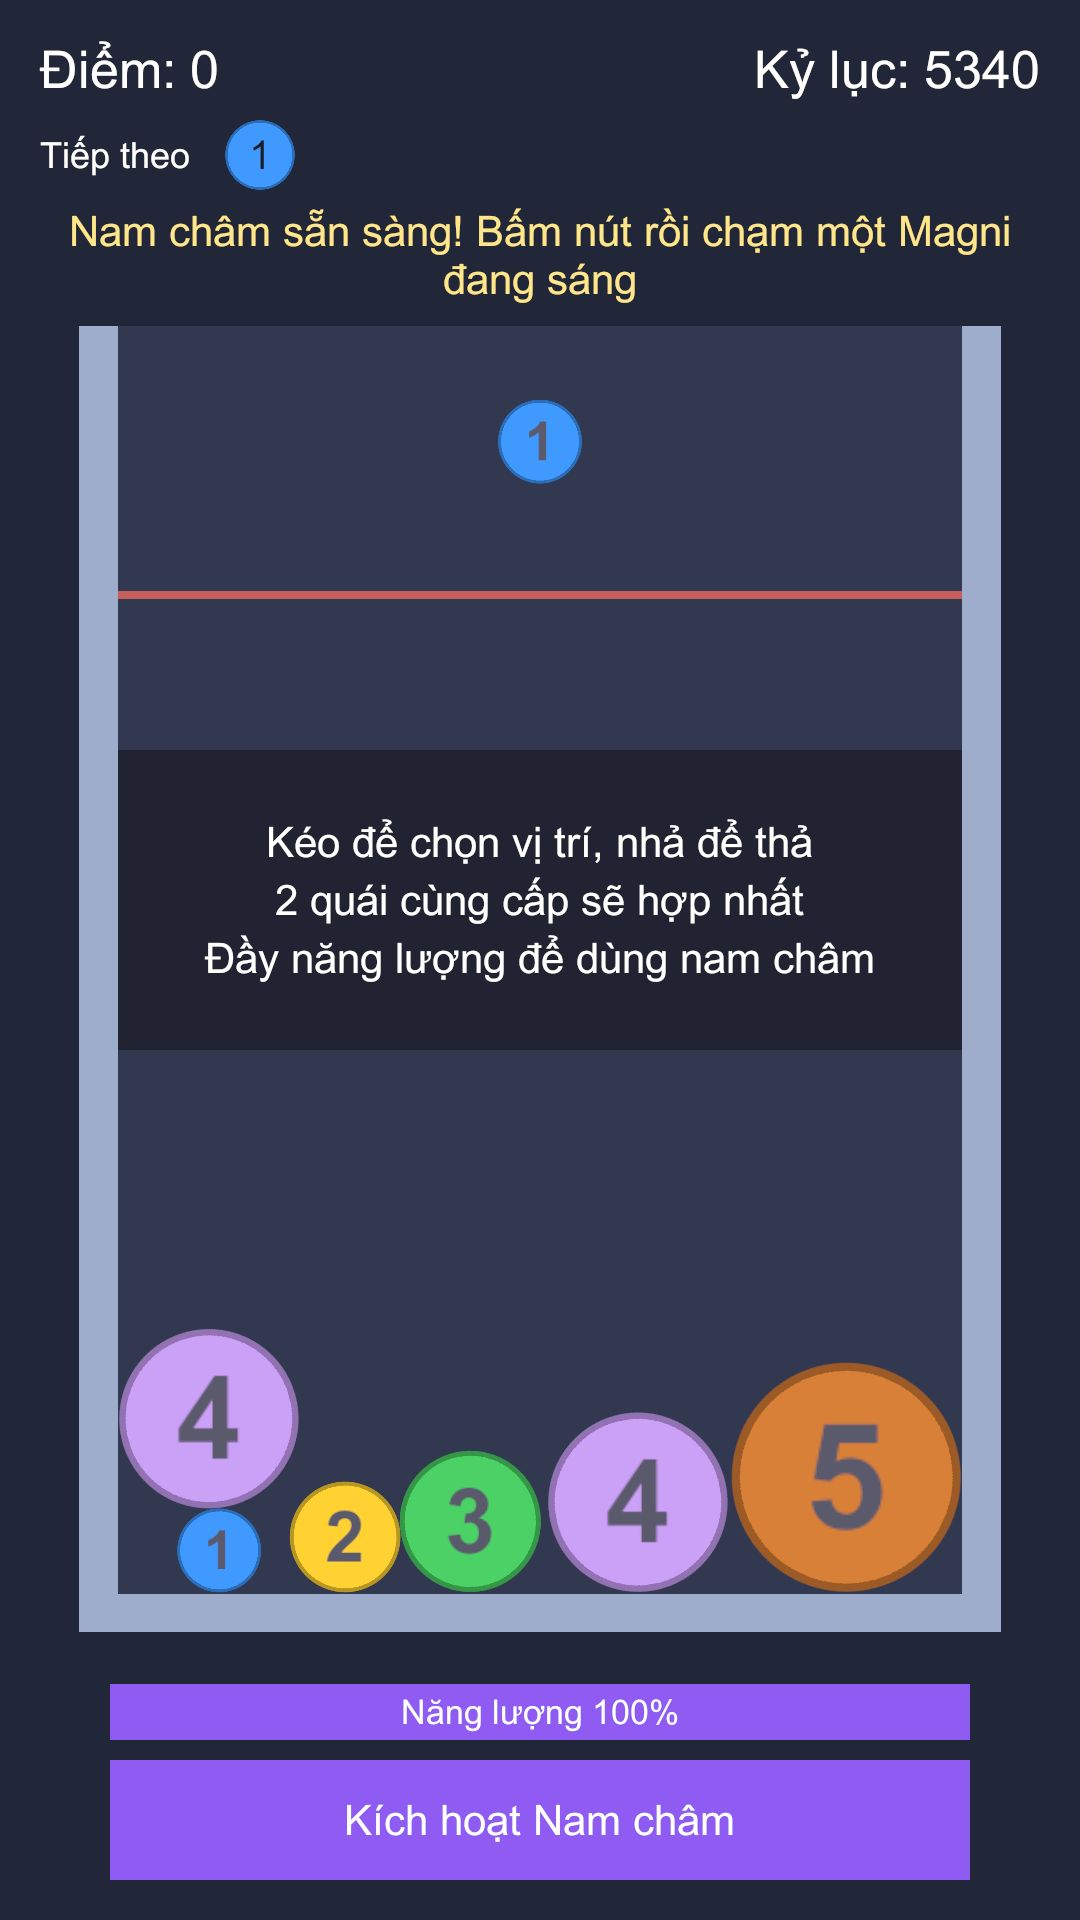
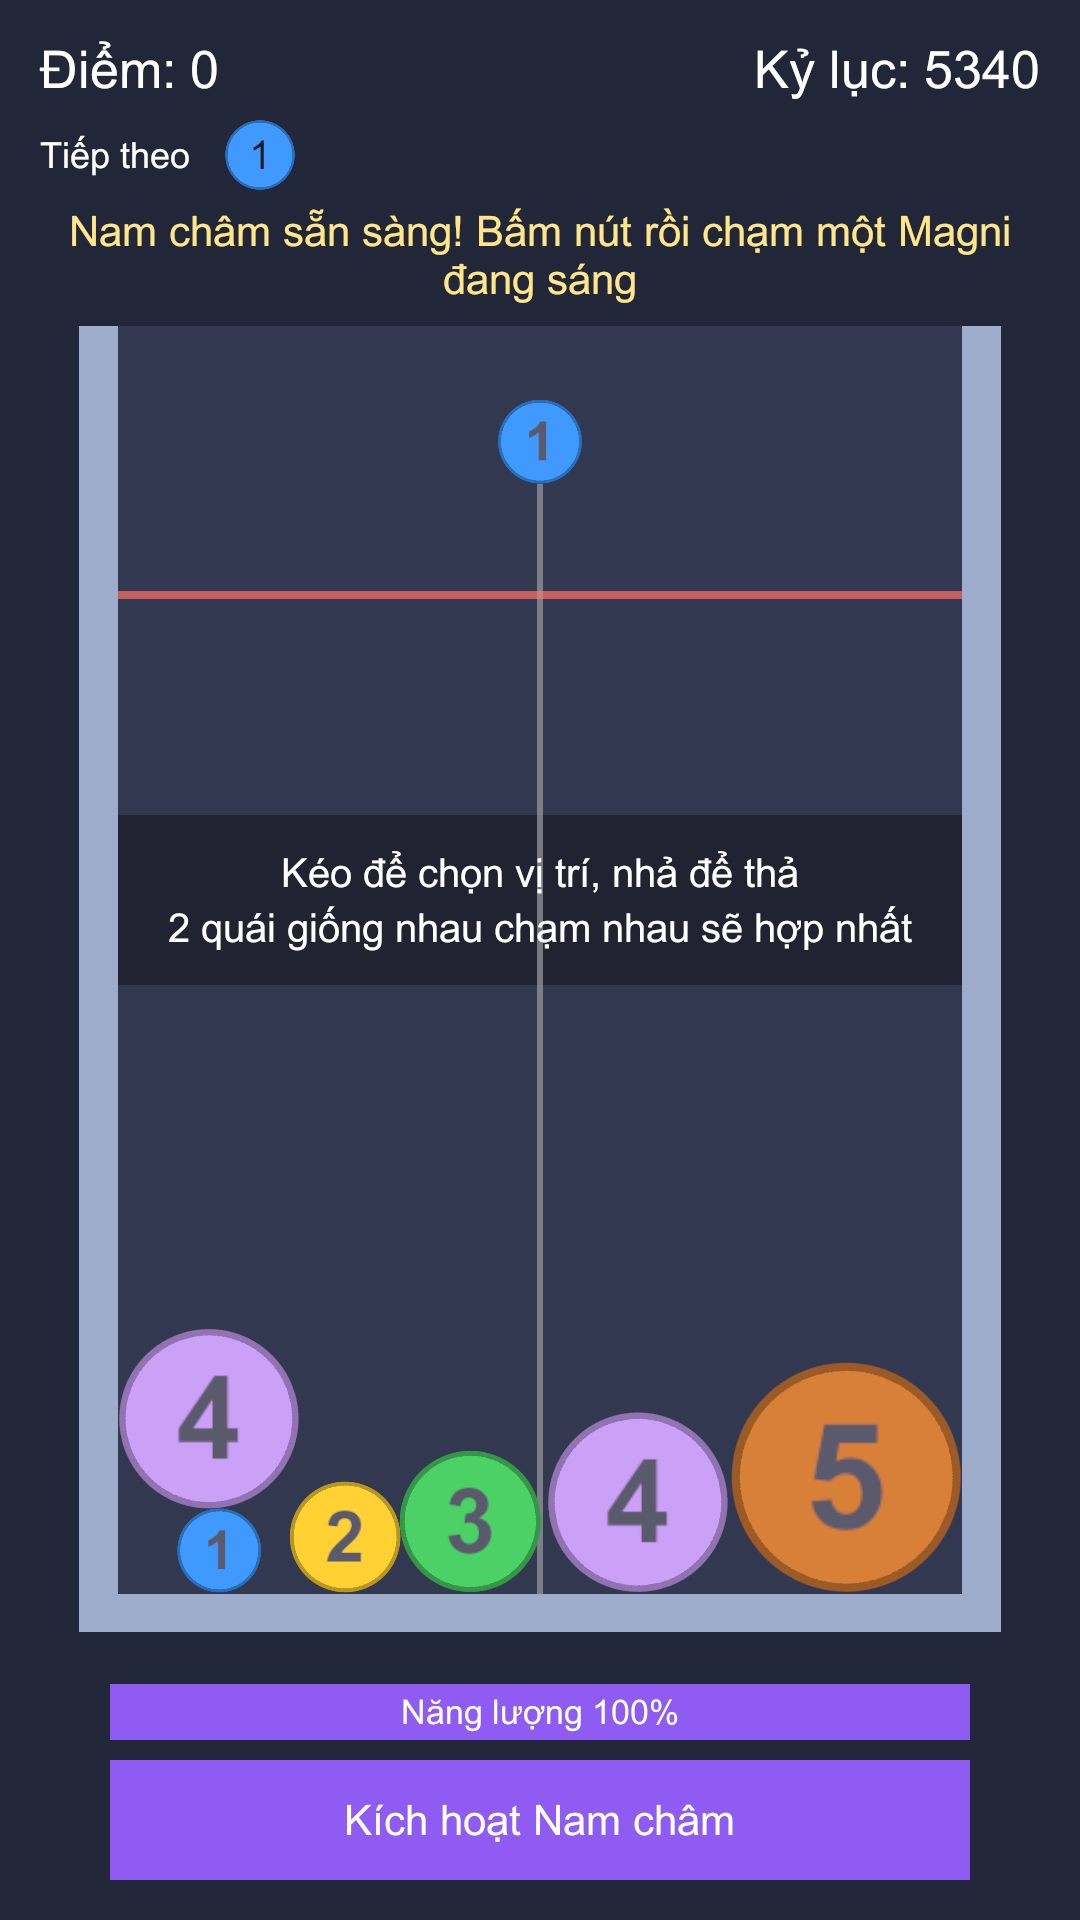
docs: cập nhật báo cáo v0.2 cho TASK-05
Thêm kết quả test, ghi chú về test cảm ứng và rủi ro đọc cú chạm
trên thiết bị, quyết định triển khai và ảnh bằng chứng cảnh báo tràn.

Task: TASK-05 trong production/monster-merge-tasks-v0.2.md

Changed region(s): [[0.0917, 0.25, 0.8861, 0.8438]]

diff --git a/production/qa/V02_TEST_REPORT.md b/production/qa/V02_TEST_REPORT.md
@@ -18,7 +18,8 @@ Nhãn: `AUTO-TEST PASS` (test tự động chạy thật), `MANUAL TEST PENDING`
 | 07/11/2026 | Sau TASK-01, chưa commit | 35 | 0 | 0 | 29 cũ không hồi quy, thêm 6 test mới; Console không có lỗi |
 | 07/11/2026 | Sau TASK-02, chưa commit | 40 | 0 | 0 | Thêm 5 test mới, điều chỉnh 5 test cũ (xem dưới); chạy lại sau khi dời ô thông báo, vẫn 40/40 |
 | 07/11/2026 | Sau TASK-03, chưa commit | 43 | 0 | 0 | Thêm 3 test; lần chạy đầu 42/1 do `T03b` đo sai thời điểm (xem dưới); Console không có lỗi |
-| 07/11/2026 | Sau TASK-04, chưa commit | 47 | 0 | 0 | Thêm 4 test; scene dựng lại; Console không có lỗi |
+| 07/11/2026 | Sau TASK-04, commit `16c0c32` | 47 | 0 | 0 | Thêm 4 test; scene dựng lại; Console không có lỗi |
+| 07/11/2026 | Sau TASK-05, chưa commit | 53 | 0 | 0 | Thêm 6 test; lần chạy đầu 52/1 do test touch xử lý sự kiện sai thời điểm (xem dưới); Console không có lỗi |
 
 ## Test mới của TASK-01
 
@@ -80,6 +81,24 @@ Mục đích của từng test không đổi: không mất năng lượng sai, b
 
 Số tiếng ít hơn nhiều so với số merge vì nhiều merge rơi vào cùng frame và tiếng sau bị bỏ do khoảng cách tối thiểu 0,05 giây. Test chỉ chứng minh tiếng có phát và không chồng nhau; **chưa ai nghe thử** âm thanh.
 
+## Test mới của TASK-05
+
+| Test | Kịch bản | Kết quả |
+|---|---|---|
+| `V02_T05a_DropGuide_FollowsPreviewDownToFloor_HiddenWithPreview` | Vạch dọc cùng X với preview, chạy từ dưới preview đến đáy; ẩn cùng preview khi cooldown | AUTO-TEST PASS |
+| `V02_T05b_ContinuousDropSpam_NeverWarns` | Thả liên tục 12 lần: vạch không lần nào báo động | AUTO-TEST PASS |
+| `V02_T05c_RealOverflow_WarnsClearlyBeforeGameOver` | Quái kẹt trên vạch: cảnh báo bật khi còn đang chơi, vạch dày hơn 2 lần, sau đó mới thua | AUTO-TEST PASS |
+| `V02_T05d_WarningClears_WhenTankIsSafeAgain` | Hết nguy hiểm: tắt cảnh báo, bộ đếm về 0, vạch về độ dày cũ | AUTO-TEST PASS |
+| `V02_T05e_TouchTap_DropsExactlyOne_AtFingerX` | Chạm cảm ứng giả lập trong bể: bắt đầu ngắm, thả đúng 1 quái tại X của ngón tay | AUTO-TEST PASS |
+| `V02_T05f_TouchOnMagnetButton_FiresButton_DoesNotDrop` | Chạm cảm ứng lên nút nam châm: nút nhận chạm, không thả quái | AUTO-TEST PASS |
+| Trong `CaptureScreens` | Ở 9:20 không có UI bấm được nào che vùng chơi | AUTO-TEST PASS |
+
+### Test touch lần đầu fail
+
+`T05e` lần đầu fail: chạm trong bể không bắt đầu ngắm. Chẩn đoán cho thấy `Pointer.current` đúng là touchscreen, vị trí đúng, đang nhấn, nhưng khi `DropController.Update` chạy thì `wasPressedThisFrame` đã là `false`. Nguyên nhân: test xử lý sự kiện chạm ngay giữa hai frame; tới frame sau Input System chạy thêm một lượt, và touchscreen tự cập nhật lại trạng thái ở mỗi lượt nên mất dấu "vừa nhấn". Đã sửa test để xếp hàng sự kiện (`queueEventOnly: true`), giống cách sự kiện tới trên máy thật.
+
+**Rủi ro còn lại:** `DropController` và `AbilityManager` đọc cú chạm bằng `wasPressedThisFrame`. Nếu trên thiết bị có lượt cập nhật input nào chạy giữa lúc chạm và lúc `Update` đọc, cú chạm sẽ bị bỏ lỡ. Theo cấu hình mặc định thì không xảy ra, nhưng **chỉ T17 trên máy Android thật mới xác nhận được**.
+
 ## Soak (bot ngẫu nhiên, chỉ ClassicCap)
 
 | Ván | Game-time | Thả | Merge | Burst | Điểm |
@@ -94,7 +113,13 @@ Số liệu nam châm từ soak sau TASK-02 (bot không dùng kỹ năng): năng
 
 ## Bằng chứng hình ảnh
 
-Lưu tại `production/qa/evidence/prototype-v0.2/`: `mm_playing_9x16.jpg`, `mm_gameover_9x16.jpg`, `mm_playing_9x20.jpg`, `mm_overload_burst_9x16.jpg`, `mm_magni_can_2_9x16.jpg`, `mm_magni_ready_9x16.jpg`, `mm_labels_rotated_9x16.jpg`, `mm_merge_ring_9x16.jpg`.
+Lưu tại `production/qa/evidence/prototype-v0.2/`: `mm_playing_9x16.jpg`, `mm_gameover_9x16.jpg`, `mm_playing_9x20.jpg`, `mm_overload_burst_9x16.jpg`, `mm_magni_can_2_9x16.jpg`, `mm_magni_ready_9x16.jpg`, `mm_labels_rotated_9x16.jpg`, `mm_merge_ring_9x16.jpg`, `mm_danger_warning_9x16.jpg`.
+
+Quan sát từ ảnh TASK-05:
+- Cảnh báo: vạch dày và đỏ rõ khi có Goo kẹt trên vạch.
+- Vạch dọc mờ từ preview xuống đáy; ô hướng dẫn chỉ còn 2 câu, nhỏ hơn.
+- 9:20: bố cục gọn, không chồng.
+- Trong ảnh, vạch dọc vẽ đè lên ô hướng dẫn. Đây là hạn chế của cách chụp (phải đổi kiểu Canvas); trong game thật UI Overlay luôn nằm trên, nhưng chưa xác minh bằng mắt.
 
 Quan sát từ ảnh TASK-04:
 - Vòng nổ burst giờ là vòng rỗng vàng nhạt, không còn nhầm với Crag.

diff --git a/production/qa/V02_IMPLEMENTATION_REPORT.md b/production/qa/V02_IMPLEMENTATION_REPORT.md
@@ -149,3 +149,31 @@ Cập nhật theo từng task. Yêu cầu gốc: `production/monster-merge-tasks
 
 - Chưa ai nghe thử âm thanh; chưa thử trên Android.
 - Khi chạm giới hạn, merge mới sẽ không có vòng sáng hoặc popup. Đây là chủ ý, nhưng cần người chơi đánh giá có bị thiếu phản hồi không.
+
+## TASK-05: Giao diện hướng dẫn ngắn — IMPLEMENTED, AUTO-TEST PASS
+
+### File code
+
+| File | Thay đổi | Lý do |
+|---|---|---|
+| `Scripts/Gameplay/DangerZone.cs` | Thêm `IsWarning`: chỉ bật khi bộ đếm tràn chạy quá `warnAfter` (0,25 giây). Khi cảnh báo, vạch dày 2,5 lần và nhấp nháy 4 lần/giây; hết nguy hiểm thì về như cũ | Cảnh báo rõ khi sắp thua, không chớp vì quái rơi hay nảy qua |
+| `Scripts/Gameplay/DropController.cs` | Thêm vạch dọc `dropGuide` từ preview xuống đáy, ẩn cùng preview; thêm thuộc tính cho test | Phân biệt preview đang thả với "Tiếp theo", thấy rõ quái sẽ rơi ở đâu |
+| `Scripts/Editor/MonsterMergeSceneBuilder.cs` | Tạo `DropGuide`; rút hướng dẫn còn 2 câu, ô 860x170 thay vì 860x300 | Hướng dẫn nhỏ, không khóa input |
+| `Tests/MonsterMergePlayTests.cs`, `MonsterMergeInputTests.cs` | Thêm 6 test, gồm 2 test chạm cảm ứng giả lập | Xem `V02_TEST_REPORT.md` |
+| `Tests/MonsterMergeScreenshotTests.cs` | Kiểm tra UI không che vùng chơi ở 9:20; thêm ảnh cảnh báo | Bằng chứng ở hai tỉ lệ |
+
+### Inspector
+
+- `Managers` > `DangerZone` > nhóm **Cảnh báo sắp tràn**: `Warn After` (0,25 giây), `Warn Thickness` (2,5), `Warn Pulse Hz` (4).
+- `Tank` > `DropGuide`: màu và độ trong của vạch dọc. Vì đối tượng này do builder tạo, muốn đổi lâu dài thì sửa trong builder.
+
+### Quyết định
+
+- Hướng dẫn chỉ còn phần kéo/thả và hợp nhất; phần nam châm đã có hướng dẫn riêng từ TASK-02. Ô hướng dẫn không chặn chạm và tắt sau lần thả đầu, như v0.1.
+- Cảnh báo chỉ nằm trên vạch, không thêm chữ, vì dải trống phía trên bể đã dùng cho thông báo.
+- Nút nam châm cao 120 và nút chơi lại cao 140 theo độ phân giải tham chiếu 1080x1920, nên đủ lớn để chạm. Chưa đo trên máy thật.
+
+### Chưa xong (TASK-05)
+
+- Chạm thật trên Android chưa thử. Xem rủi ro `wasPressedThisFrame` trong `V02_TEST_REPORT.md`.
+- Thứ tự vẽ giữa vạch dọc và ô hướng dẫn trong game thật chưa xác minh bằng mắt.

diff --git a/production/v0.2-scope-notes.md b/production/v0.2-scope-notes.md
@@ -5,7 +5,7 @@
 | Cập nhật | 07/11/2026 |
 | Yêu cầu gốc | `production/monster-merge-tasks-v0.2.md` |
 | Phiếu chơi thử | `production/qa/V02_PLAYTEST_FORM.md` |
-| Trạng thái | TASK-01 đến TASK-04 đã xong. Chi tiết trong `production/qa/V02_IMPLEMENTATION_REPORT.md` và `production/qa/V02_TEST_REPORT.md` |
+| Trạng thái | TASK-01 đến TASK-05 đã xong. Chi tiết trong `production/qa/V02_IMPLEMENTATION_REPORT.md` và `production/qa/V02_TEST_REPORT.md` |
 
 ## Việc cần làm
 
@@ -15,7 +15,7 @@
 | TASK-02 | P0 | Lý do Magni không dùng được, làm nổi mục tiêu, hướng dẫn một lần, log | IMPLEMENTED, AUTO-TEST PASS; chơi tay còn chờ |
 | TASK-03 | P1 | Số trên quái luôn đứng thẳng | IMPLEMENTED, AUTO-TEST PASS; font Android còn chờ |
 | TASK-04 | P1 | Pop, vòng hiệu ứng, SFX, nhấn combo từ x3, `JuiceEnabled` | IMPLEMENTED, AUTO-TEST PASS; chưa nghe thử âm thanh |
-| TASK-05 | P1 | Hướng dẫn ngắn, phân biệt preview với Tiếp theo, cảnh báo tràn | Chưa làm |
+| TASK-05 | P1 | Hướng dẫn ngắn, phân biệt preview với Tiếp theo, cảnh báo tràn | IMPLEMENTED, AUTO-TEST PASS; chạm thật trên Android còn chờ |
 | TASK-06 | Bắt buộc | Chạy lại test v0.1, thêm test mới, soak cả hai chế độ | Chưa làm |
 | TASK-07 | P1/P2 | Người phát triển chơi 6 ván A/B | Chờ bản v0.2 |
 | TASK-08 | P1/P2 | Build APK, test trên máy Android | Chờ bản v0.2 và thiết bị |
